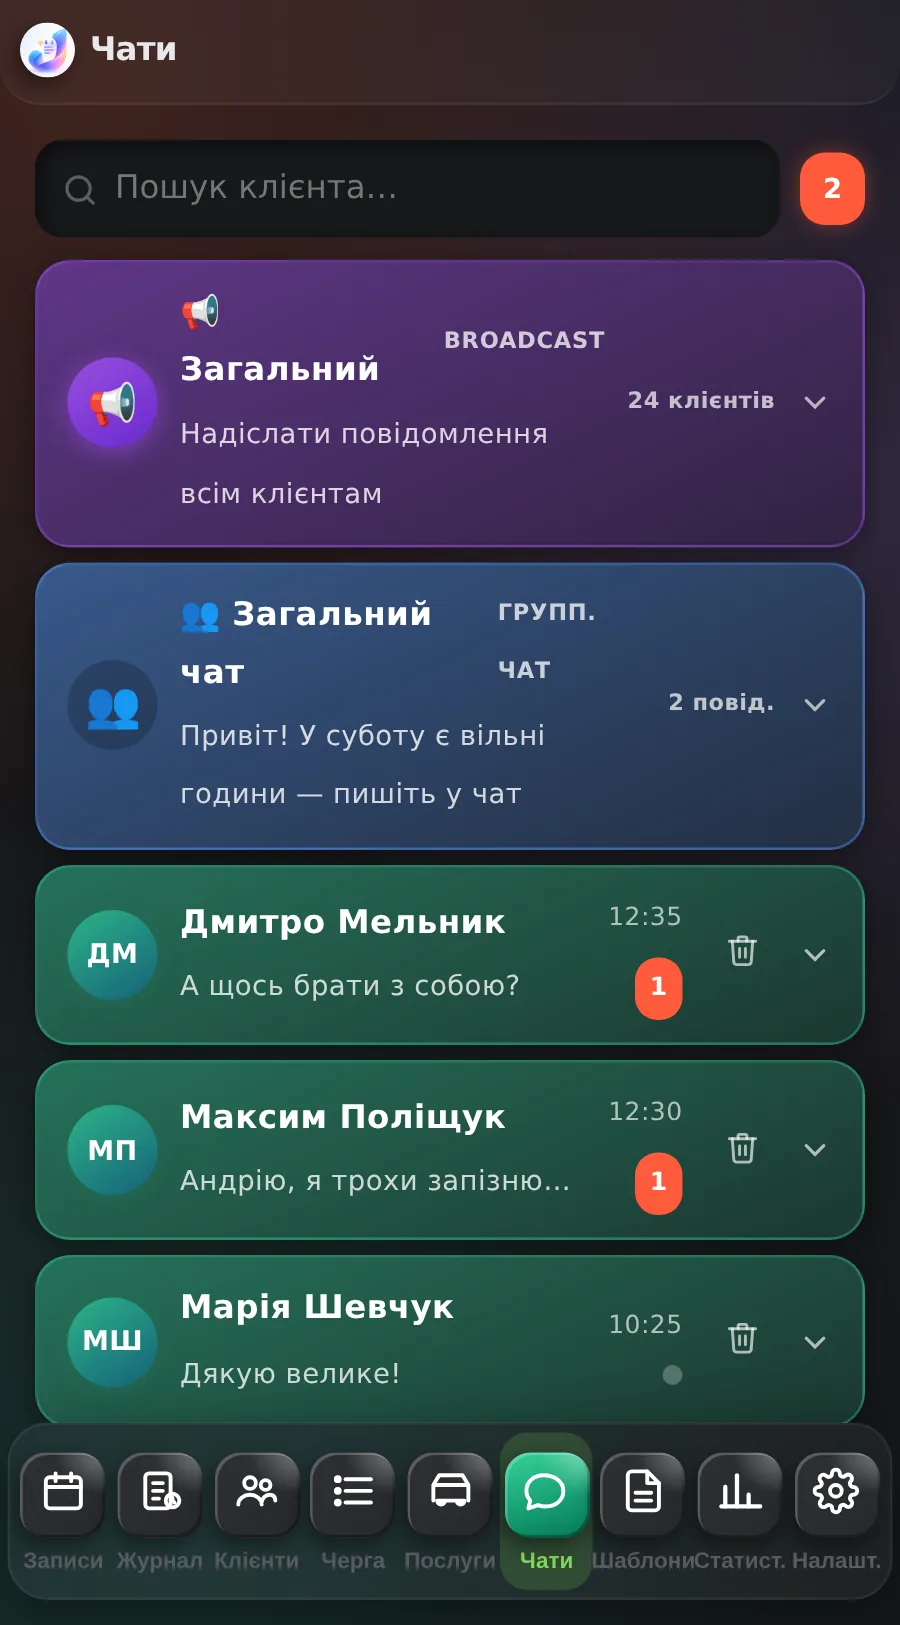
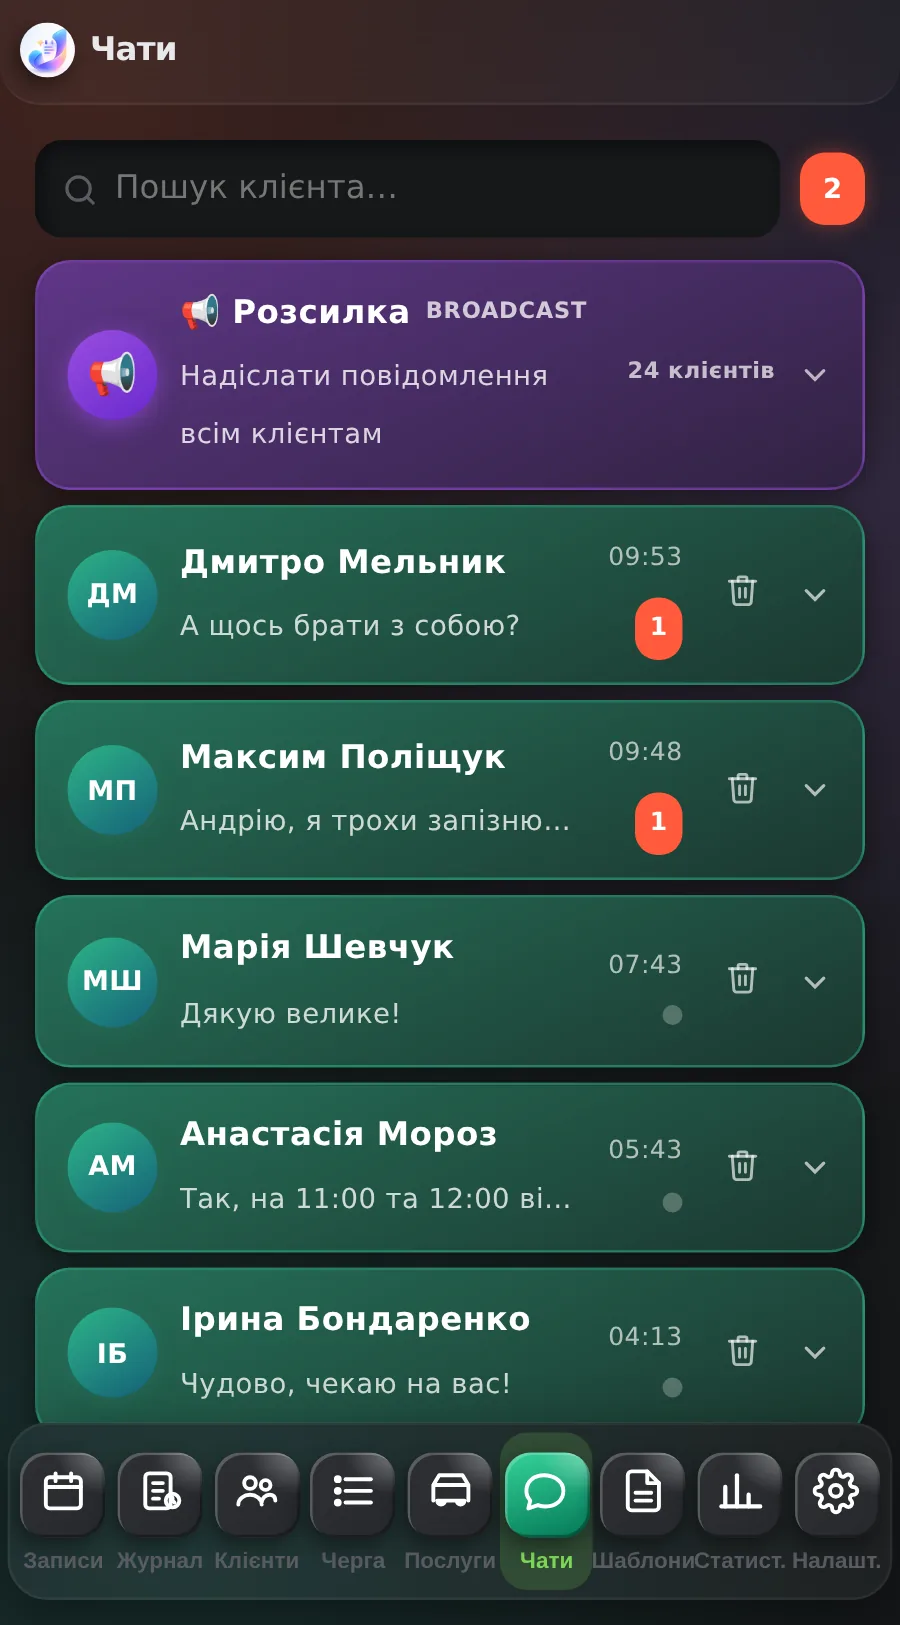
v07.10.1 — прибрано загальний чат (адмінка і клієнт); «Загальний» → «Розсилка»; УЧЕНЬ/УЧНІВ → КЛІЄНТ(ІВ); нові скріншоти чатів
Claude-Session: https://claude.ai/code/session_01F5x8mQ4ZW74JYN9AP9pVdP

Changed region(s): [[0.0311, 0.1846, 0.9644, 0.8615], [0.9333, 0.8615, 0.9644, 0.8923], [0.0311, 0.8615, 0.0622, 0.8923]]

diff --git a/src/views/id4drive-chats.jsx b/src/views/id4drive-chats.jsx
@@ -133,7 +133,6 @@ function Conversation({ contact, messages, onSend, isBroadcast }) {
 
 // ─── MAIN ────────────────────────────────────────────────────────
 const BROADCAST_ID = "__broadcast__";
-const GENERAL_ID   = "__general__";
 
 export default function ChatsView() {
   const { BG, BG_DEEP, SURFACE, SURF_HI, SURF_LO, BORDER, TEXT, DIM, FAINT, ACCENT, SO, SI } = useContext(ThemeContext);
@@ -175,7 +174,6 @@ export default function ChatsView() {
 
   const [contacts,      setContacts]      = useState([]);
   const [messages,      setMessages]      = useState({});
-  const [generalMsgs,   setGeneralMsgs]   = useState([]);
   const [broadcastMsgs, setBroadcastMsgs] = useState([]);
   const [openId,        setOpenId]        = useState(null);
   const [search,      setSearch]      = useState("");
@@ -243,15 +241,6 @@ export default function ChatsView() {
 
   useEffect(() => () => Object.values(msgUnsubs.current).forEach(u=>u?.()), []);
 
-  // ── General chat ──────────────────────────────────────────────
-  useEffect(() => {
-    const unsub = onValue(iRef( "chats/general"), snap => {
-      const msgs = Object.entries(snap.val()||{}).map(([id,m])=>({...m,id})).sort((a,b)=>(a.ts||0)-(b.ts||0)||(a.id>b.id?1:-1));
-      setGeneralMsgs(msgs);
-    });
-    return unsub;
-  }, []);
-
   // ── Broadcast history ─────────────────────────────────────────
   useEffect(() => {
     const unsub = onValue(iRef( "chats/__broadcast__"), snap => {
@@ -281,7 +270,7 @@ export default function ChatsView() {
   const toggle = id => {
     if (deletingId) { setDeletingId(null); return; }
     setOpenId(prev => prev===id ? null : id);
-    if (id !== BROADCAST_ID && id !== GENERAL_ID) {
+    if (id !== BROADCAST_ID) {
       setUnreadMeta(m => ({...m, [id]:0}));
       set(iRef( `chatMeta/${id}/unreadForAdmin`), 0).catch(()=>{});
     }
@@ -296,8 +285,6 @@ export default function ChatsView() {
         push(iRef(`chats/${c.id}`),{...msg,broadcast:true}).catch(()=>{});
         update(iRef(`chatMeta/${c.id}`),{unreadForStudent:increment(1),lastMsg:text,lastTs:ts}).catch(()=>{});
       });
-    } else if (contactId === GENERAL_ID) {
-      push(iRef("chats/general"),{from:"admin",uid:"__admin__",name:"Майстер",text,time,ts}).catch(()=>{});
     } else {
       push(iRef(`chats/${contactId}`),msg).catch(()=>{});
       update(iRef(`chatMeta/${contactId}`),{unreadForStudent:increment(1),lastMsg:text,lastTs:ts}).catch(()=>{});
@@ -326,7 +313,6 @@ export default function ChatsView() {
     .sort((a,b) => ((unreadMeta[b.id]||0)>0)-((unreadMeta[a.id]||0)>0) || (b.lastTs||0)-(a.lastTs||0));
   const totalUnread   = contacts.reduce((s,c)=>s+(unreadMeta[c.id]||0), 0);
   const broadcastOpen = openId === BROADCAST_ID;
-  const generalOpen   = openId === GENERAL_ID;
 
   return (
     <>
@@ -359,10 +345,10 @@ export default function ChatsView() {
             border:`1px solid color-mix(in srgb,#a855f7 ${broadcastOpen?55:38}%,transparent)`}}>
             <div className={`chat-row${broadcastOpen?" broadcast-open":""}`} onClick={()=>toggle(BROADCAST_ID)}
               style={{display:"flex",alignItems:"center",gap:9,padding:"9px 12px"}}>
-              <Ava name="Загальний" hue={270} size={36} isBroadcast/>
+              <Ava name="Розсилка" hue={270} size={36} isBroadcast/>
               <div style={{flex:1,minWidth:0}}>
                 <div style={{display:"flex",alignItems:"center",gap:6,marginBottom:2}}>
-                  <span style={{fontSize:13,fontWeight:800,color:"#fff"}}>📢 Загальний</span>
+                  <span style={{fontSize:13,fontWeight:800,color:"#fff"}}>📢 Розсилка</span>
                   <span style={{fontSize:9,color:"rgba(255,255,255,0.75)",fontWeight:700,letterSpacing:0.3}}>BROADCAST</span>
                 </div>
                 <div style={{fontSize:11,color:"rgba(255,255,255,0.8)"}}>Надіслати повідомлення всім клієнтам</div>
@@ -377,44 +363,8 @@ export default function ChatsView() {
             </div>
             {broadcastOpen && (
               <Conversation key={BROADCAST_ID}
-                contact={{id:BROADCAST_ID,name:"Загальний",messages:broadcastMsgs}}
+                contact={{id:BROADCAST_ID,name:"Розсилка",messages:broadcastMsgs}}
                 messages={broadcastMsgs} onSend={handleSend} isBroadcast/>
-            )}
-          </div>
-        )}
-
-        {/* ── GENERAL CHAT ── */}
-        {!search && (
-          <div style={{
-            background:`linear-gradient(155deg,color-mix(in srgb,#5b9bff 50%,${BG_DEEP}) 0%,color-mix(in srgb,#5b9bff 18%,${BG_DEEP}) 100%)`,
-            borderRadius:14,overflow:"hidden",marginBottom:6,boxShadow:SO,
-            border:`1px solid color-mix(in srgb,#5b9bff ${generalOpen?55:38}%,transparent)`}}>
-            <div className={`chat-row${generalOpen?" open":""}`} onClick={()=>toggle(GENERAL_ID)}
-              style={{display:"flex",alignItems:"center",gap:9,padding:"9px 12px"}}>
-              <div style={{width:36,height:36,borderRadius:18,background:"rgba(0,0,0,0.2)",
-                display:"flex",alignItems:"center",justifyContent:"center",fontSize:18,flexShrink:0}}>👥</div>
-              <div style={{flex:1,minWidth:0}}>
-                <div style={{display:"flex",alignItems:"center",gap:6,marginBottom:2}}>
-                  <span style={{fontSize:13,fontWeight:800,color:"#fff"}}>👥 Загальний чат</span>
-                  <span style={{fontSize:9,color:"rgba(255,255,255,0.75)",fontWeight:700,letterSpacing:0.3}}>ГРУПП. ЧАТ</span>
-                </div>
-                <div style={{fontSize:11,color:"rgba(255,255,255,0.8)"}}>
-                  {generalMsgs.length > 0 ? generalMsgs[generalMsgs.length-1].text : "Чат клієнтів між собою"}
-                </div>
-              </div>
-              <div style={{flexShrink:0,textAlign:"right"}}>
-                <div style={{fontSize:9,color:"rgba(255,255,255,0.7)",fontWeight:700}}>{generalMsgs.length} повід.</div>
-              </div>
-              <svg width="14" height="14" viewBox="0 0 24 24" fill="none" stroke="rgba(255,255,255,0.65)" strokeWidth="2.2" strokeLinecap="round"
-                style={{flexShrink:0,transform:generalOpen?"rotate(180deg)":"none",transition:"transform .22s"}}>
-                <polyline points="6 9 12 15 18 9"/>
-              </svg>
-            </div>
-            {generalOpen && (
-              <Conversation key={GENERAL_ID}
-                contact={{id:GENERAL_ID,name:"Загальний чат"}}
-                messages={generalMsgs.map(m=>({...m,from:m.uid==="__admin__"?"admin":"student",text:m.uid==="__admin__"?m.text:`${m.name}: ${m.text}`}))}
-                onSend={handleSend}/>
             )}
           </div>
         )}

diff --git a/landing/index.html b/landing/index.html
@@ -174,7 +174,7 @@
   <div class="center"><span class="eyebrow">Всередині застосунку</span><h2 class="sec-title">Так це виглядає на телефоні</h2><p class="sec-sub">Розклад, клієнти, чати й статистика — в одному місці. На знімках демонстраційні дані.</p></div>
   <div class="gallery" tabindex="0" role="group" aria-label="Знімки екранів застосунку">
     <figure><div class="phone"><div class="phone-notch"><span></span></div><img src="img/shot-schedule.webp" alt="Розклад майстра на тиждень у Juno" width="540" height="976" loading="lazy" decoding="async"></div><figcaption>Розклад на тиждень<small>VIP, приватні, перший запис, обід — усе видно одразу</small></figcaption></figure>
-    <figure><div class="phone"><div class="phone-notch"><span></span></div><img src="img/shot-chats.webp" alt="Чати з клієнтами в Juno" width="540" height="972" loading="lazy" decoding="async"></div><figcaption>Чати з клієнтами<small>Особисті діалоги, загальний чат і розсилка</small></figcaption></figure>
+    <figure><div class="phone"><div class="phone-notch"><span></span></div><img src="img/shot-chats.webp" alt="Чати з клієнтами в Juno" width="540" height="972" loading="lazy" decoding="async"></div><figcaption>Чати з клієнтами<small>Особисті діалоги з клієнтами і розсилка</small></figcaption></figure>
     <figure><div class="phone"><div class="phone-notch"><span></span></div><img src="img/shot-stats.webp" alt="Статистика доходу й записів у Juno" width="540" height="978" loading="lazy" decoding="async"></div><figcaption>Статистика<small>Дохід, записи й години по днях і місяцях</small></figcaption></figure>
     <figure><div class="phone"><div class="phone-notch"><span></span></div><img src="img/shot-services.webp" alt="Послуги та ціни в Juno" width="540" height="974" loading="lazy" decoding="async"></div><figcaption>Послуги й ціни<small>Стандартні та індивідуальні записи різної тривалості</small></figcaption></figure>
     <figure><div class="phone"><div class="phone-notch"><span></span></div><img src="img/shot-templates.webp" alt="Шаблони сповіщень у Juno" width="540" height="974" loading="lazy" decoding="async"></div><figcaption>Шаблони сповіщень<small>Нагадування, підтвердження, пропозиція вільного слоту</small></figcaption></figure>

diff --git a/landing/en/index.html b/landing/en/index.html
@@ -149,7 +149,7 @@
   <div class="center"><span class="eyebrow">Inside the app</span><h2 class="sec-title">This is how it looks on your phone</h2><p class="sec-sub">Schedule, clients, chats and statistics in one place. Screenshots show demo data.</p></div>
   <div class="gallery" tabindex="0" role="group" aria-label="App screenshots">
     <figure><div class="phone"><div class="phone-notch"><span></span></div><img src="../img/shot-schedule.webp" alt="Weekly schedule in Juno" width="540" height="976" loading="lazy" decoding="async"></div><figcaption>Weekly schedule<small>VIP, private slots, first booking, lunch — all visible at a glance</small></figcaption></figure>
-    <figure><div class="phone"><div class="phone-notch"><span></span></div><img src="../img/shot-chats.webp" alt="Client chats in Juno" width="540" height="972" loading="lazy" decoding="async"></div><figcaption>Client chats<small>Direct chats, a group chat and broadcasts</small></figcaption></figure>
+    <figure><div class="phone"><div class="phone-notch"><span></span></div><img src="../img/shot-chats.webp" alt="Client chats in Juno" width="540" height="972" loading="lazy" decoding="async"></div><figcaption>Client chats<small>Direct chats with clients and broadcasts</small></figcaption></figure>
     <figure><div class="phone"><div class="phone-notch"><span></span></div><img src="../img/shot-stats.webp" alt="Income and booking statistics in Juno" width="540" height="978" loading="lazy" decoding="async"></div><figcaption>Statistics<small>Income, bookings and hours by day and month</small></figcaption></figure>
     <figure><div class="phone"><div class="phone-notch"><span></span></div><img src="../img/shot-services.webp" alt="Services and prices in Juno" width="540" height="974" loading="lazy" decoding="async"></div><figcaption>Services & prices<small>Standard and individual bookings of any length</small></figcaption></figure>
     <figure><div class="phone"><div class="phone-notch"><span></span></div><img src="../img/shot-templates.webp" alt="Notification templates in Juno" width="540" height="974" loading="lazy" decoding="async"></div><figcaption>Message templates<small>Reminders, confirmations, free-slot offers</small></figcaption></figure>

diff --git a/src/demo/demoData.js b/src/demo/demoData.js
@@ -275,7 +275,7 @@ export function buildDemoTree() {
   };
 
   // ── чати: кілька живих діалогів ──────────────────────────────
-  const chats = { general: {}, __broadcast__: {} };
+  const chats = { __broadcast__: {} };
   const chatMeta = {};
   const mkMsg = (from, text, minsAgo) => {
     const ts = nowTs - minsAgo * 60000;
@@ -293,10 +293,6 @@ export function buildDemoTree() {
   dialogs.forEach(([st, msgs, unread]) => {
     msgs.forEach(([from, text, ago], i) => { (chats[st.uid] ||= {})[`m${String(i).padStart(2, "0")}`] = mkMsg(from, text, ago); });
     chatMeta[st.uid] = { unreadForAdmin: unread };
-  });
-  [["student", STUDENTS[2], "Всім привіт! Хтось записується на вихідні?", 900], ["admin", null, "Привіт! У суботу є вільні години — пишіть у чат", 880]].forEach(([from, st, text, ago], i) => {
-    const m = mkMsg(from, text, ago);
-    chats.general[`g${i}`] = from === "admin" ? { ...m, uid: "__admin__", name: "Майстер" } : { ...m, uid: st.uid, name: st.n };
   });
 
   // ── сповіщення клієнта (кабінет клієнта в демо — це Ірина Бондаренко) ──

diff --git a/src/views/id4drive-journal.jsx b/src/views/id4drive-journal.jsx
@@ -186,7 +186,7 @@ function EventDetailSheet({ ev, meta, onClose, theme }) {
           </div>
 
           <div style={{padding:"14px 20px 28px",display:"flex",flexDirection:"column",gap:8}}>
-            <InfoRow label="УЧЕНЬ" value={ev.name} valueStyle={{fontSize:16,fontWeight:800,color:theme.TEXT}} theme={theme} />
+            <InfoRow label="КЛІЄНТ" value={ev.name} valueStyle={{fontSize:16,fontWeight:800,color:theme.TEXT}} theme={theme} />
             {ev.slot && <InfoRow label={ev.type === "new_student" ? "ТЕЛЕФОН" : "ЗАНЯТТЯ"} value={ev.slot} theme={theme} />}
             {byLabel && <InfoRow label="ДІЯ ВІД" value={byLabel} theme={theme} />}
           </div>
@@ -329,7 +329,7 @@ export default function JournalView() {
           ["new",         "✓ НОВИЙ",     theme.GREEN],
           ["cancel",      "✕ СКАСОВАНО", theme.RED  ],
           ["reschedule",  "↻ ПЕРЕНОС",   theme.GOLD ],
-          ["new_student", "🆕 УЧЕНЬ",    theme.BLUE ],
+          ["new_student", "🆕 КЛІЄНТ",    theme.BLUE ],
         ].map(([id, lbl, color]) => {
           const active = typeFilter === id;
           const count  = bySection.filter(e => e.type === id).length;

diff --git a/src/views/id4drive-settings.jsx b/src/views/id4drive-settings.jsx
@@ -1530,7 +1530,7 @@ select{color-scheme:${isKava?"light":"dark"}}
         }}>
           <div style={{display:"flex",alignItems:"center",gap:8,marginBottom:8}}>
             <span style={{fontSize:15}}>🔗</span>
-            <span style={{fontSize:12, fontWeight:800, color:"#fff"}}>ПОСИЛАННЯ ДЛЯ ЗАПИСУ УЧНІВ</span>
+            <span style={{fontSize:12, fontWeight:800, color:"#fff"}}>ПОСИЛАННЯ ДЛЯ ЗАПИСУ КЛІЄНТІВ</span>
           </div>
           <div style={{background:BG_DEEP, border:`1px solid ${BORDER}`, borderRadius:10, padding:"9px 12px", fontSize:12, color:TEXT, wordBreak:"break-all"}}>{bookingLink}</div>
           <button onClick={copyBookingLink} style={{

diff --git a/src/views/id4drive-templates.jsx b/src/views/id4drive-templates.jsx
@@ -492,7 +492,7 @@ function SimpleEditModal({ tpl, onSave, onClose }) {
 
         {body.trim() && (
           <div style={{marginBottom:14}}>
-            <div style={{...label,marginBottom:6}}>ТАК ПОБАЧИТЬ УЧЕНЬ (приклад)</div>
+            <div style={{...label,marginBottom:6}}>ТАК ПОБАЧИТЬ КЛІЄНТ (приклад)</div>
             <div className="bubble-preview" style={{whiteSpace:"pre-wrap"}}>{renderVars(body, SAMPLE_VARS)}</div>
           </div>
         )}

diff --git a/src/views/id4drive-admin-v5.jsx b/src/views/id4drive-admin-v5.jsx
@@ -6359,7 +6359,7 @@ function NewBookingModal({ data, onClose, onConfirm, settings, bookings = [] }) 
 
           <div style={{padding:"16px 16px 0",display:"flex",flexDirection:"column",gap:16}}>
 
-          {/* УЧЕНЬ */}
+          {/* КЛІЄНТ */}
           <div>
             <SL>Клієнт</SL>
             {isNewStudent ? (

diff --git a/src/version.js b/src/version.js
@@ -1,1 +1,1 @@
-export const APP_VERSION = "v06.10.3";
+export const APP_VERSION = "v07.10.1";
